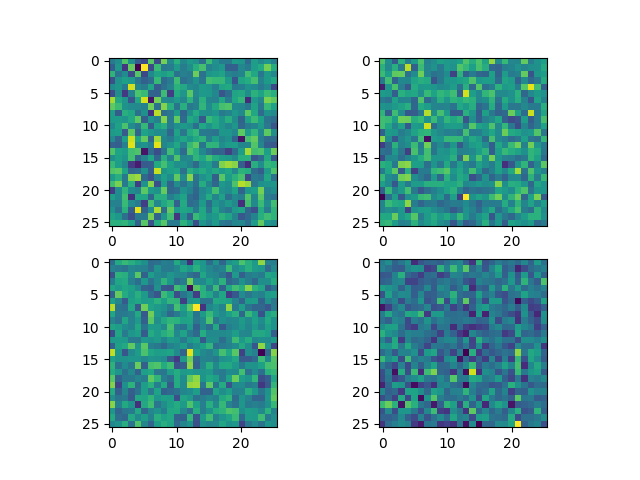
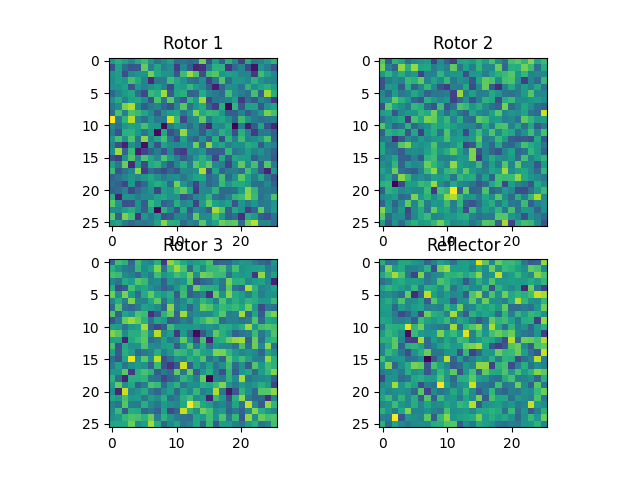
agents work too!

Changed region(s): [[0.5938, 0.0625, 0.875, 0.9062], [0.1562, 0.0625, 0.4375, 0.9062]]

diff --git a/train.py b/train.py
@@ -139,6 +139,7 @@ class Enigma(LightningModule):
         # x=self.activation(x)
 
         #Test: Do we want to do something like a softmax to force the gradient to a letter?
+        x=torch.nn.functional.softmax(x,dim=2) ##what happens if this is removed? 
         return x
     
     def training_step(self,batch,batch_idx):
@@ -177,22 +178,30 @@ class Enigma(LightningModule):
         rotor2Loss=torch.nn.functional.cross_entropy(self.R2.rotor/torch.norm(self.R2.rotor,dim=(0,1),keepdim=True),rotors[1])
         rotor3Loss=torch.nn.functional.cross_entropy(self.R3.rotor.T/torch.norm(self.R3.rotor,dim=(0,1),keepdim=True),rotors[2])
         reflectorLoss=torch.nn.functional.cross_entropy(self.REF.rotor/torch.norm(self.REF.rotor,dim=(0,1),keepdim=True),reflector)
-        
+        self.log("Rotor 1 Loss",rotor1Loss, prog_bar=True)
+        self.log("Rotor 2 Loss",rotor2Loss, prog_bar=True) 
+        self.log("Rotor 3 Loss",rotor3Loss, prog_bar=True)
+        self.log("Reflector Loss",reflectorLoss, prog_bar=True)
+        self.log("Test Loss",(rotor1Loss+rotor2Loss+rotor3Loss+reflectorLoss)/4,prog_bar=True)
         #use imshow to display the rotors and reflectors
         fig=plt.figure()
         ax1=fig.add_subplot(221)
         ax1.imshow(self.R1.rotor.detach().numpy())
+        ax1.set_title("Rotor 1")
         ax2=fig.add_subplot(222)
         ax2.imshow(self.R2.rotor.detach().numpy())
+        ax2.set_title("Rotor 2")
         ax3=fig.add_subplot(223)
         ax3.imshow(self.R3.rotor.detach().numpy())
+        ax3.set_title("Rotor 3")
         ax4=fig.add_subplot(224)
         ax4.imshow(self.REF.rotor.detach().numpy())
+        ax4.set_title("Reflector")
         #save to figure and log it
         #self.logger.experiment.log({"Rotor 1":fig})
         fig.savefig("Rotors.png")
         plt.close(fig)
-        self.logger.experiment.log({"Rotors":wandb.Image("Rotors.png")})
+        # self.logger.experiment.log({"Rotors":wandb.Image("Rotors.png")})
 
         LSA_score=self.convertParametertoConfidence(self.R1.rotor)
         self.log("Rotor 1 Confidence",LSA_score)
@@ -205,11 +214,7 @@ class Enigma(LightningModule):
 
 
         # print("Mean Solution loss : ",(rotor1Loss+rotor2Loss+rotor3Loss+reflectorLoss)/4)
-        self.log("Rotor 1 Loss",rotor1Loss, prog_bar=True)
-        self.log("Rotor 2 Loss",rotor2Loss, prog_bar=True) 
-        self.log("Rotor 3 Loss",rotor3Loss, prog_bar=True)
-        self.log("Reflector Loss",reflectorLoss, prog_bar=True)
-        self.log("Test Loss",(rotor1Loss+rotor2Loss+rotor3Loss+reflectorLoss)/4,prog_bar=True)
+      
         return rotor1Loss,rotor2Loss,rotor3Loss,reflectorLoss
 
         #We will compare the current settings to the ground truth settings.
@@ -231,11 +236,11 @@ if __name__ == "__main__":
     from pytorch_lightning.loggers import WandbLogger
     parser = argparse.ArgumentParser()
     parser.add_argument("--optimizer_name",type=str,default="sgd")
-    parser.add_argument("--learning_rate",type=float,default=1e-2)
-    parser.add_argument("--batch_size",type=int,default=32)
+    parser.add_argument("--learning_rate",type=float,default=1e-3)
+    parser.add_argument("--batch_size",type=int,default=64)
     parser.add_argument("--precision",type=str,default="32")
     parser.add_argument("--activation",type=str,default="sigmoid")
-    parser.add_argument("--loss",type=str,default="MSELoss")
+    parser.add_argument("--loss",type=str,default="CrossEntropy")
     args=parser.parse_args()
     model=Enigma(args.optimizer_name,args.learning_rate,args.batch_size,args.precision,args.activation,args.loss)
     model.print_enigma_settings()

diff --git a/CreateWandBSweep.py b/CreateWandBSweep.py
@@ -4,7 +4,7 @@ wandb.login(anonymous="allow")
 # Create a sweep configuration as found at https://docs.wandb.ai/guides/sweeps/define-sweep-configuration/
 if __name__=="__main__":
     sweep_config = {
-        'method': 'random',  # Randomly sample the hyperparameter space (alternatives: grid, bayes)
+        'method': 'bayes',  # Randomly sample the hyperparameter space (alternatives: grid, random)
         'job_type': 'train',  # This is a training sweep
         'program': 'train.py',  # This is the script to be run
     
@@ -29,7 +29,7 @@ if __name__=="__main__":
                 "values":["adam","sgd"]
             },
             "loss":{
-                "values":["CrossEntropy","MSE"]
+                "values":["CrossEntropy","MSELoss"]
             }
         }
     }
@@ -38,4 +38,4 @@ if __name__=="__main__":
     sweep_id = wandb.sweep(sweep_config, project="Enigma", entity="st7ma784")
     import os
     # Initialize a new wandb agent and run the train.py script with the sweep_id args
-    os.system(f"wandb agent {sweep_id} --count 10")
+    os.system(f"wandb agent {sweep_id} --count 100")
